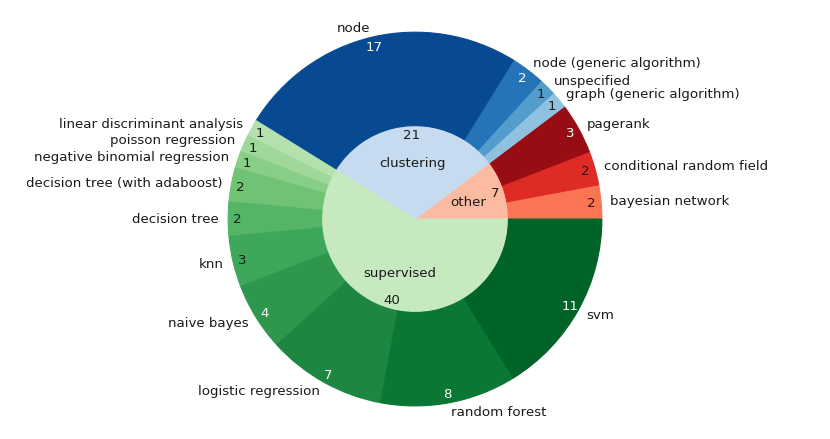
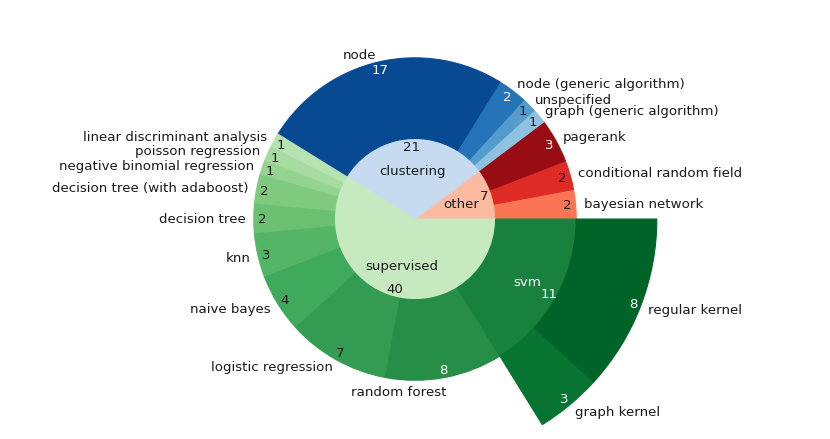
Updated plotting code; update figures

Changed region(s): [[0.0301, 0.0592, 0.9337, 0.9772]]

diff --git a/plotting/plotting.py b/plotting/plotting.py
@@ -788,6 +788,7 @@ def plot_classic_models(args, data: list[data_loading.DataLoader]):
                 assert len(type_info) == 1
                 attrs = model.get_attributes('misc: model')
                 has_adaboost = 'meta: adaboost' in attrs
+                uses_kernel = bool(model.get_attributes('misc: kernel'))
                 if has_adaboost:
                     attrs.remove('meta: adaboost')
                 for key in attrs:
@@ -797,6 +798,11 @@ def plot_classic_models(args, data: list[data_loading.DataLoader]):
                         key = key.replace('ranking:', 'other:')
                     if has_adaboost:
                         unique.add(f'{key} (with adaboost)')
+                    elif key.endswith('svm'):
+                        if uses_kernel:
+                            unique.add(f'{key}: graph kernel')
+                        else:
+                            unique.add(f'{key}: regular kernel')
                     else:
                         unique.add(key)
                     if model.cluster is not None:
@@ -819,8 +825,17 @@ def plot_classic_models(args, data: list[data_loading.DataLoader]):
         current[parts[-1]] = value
     with adjusted_font_scale(1):
         with plot_utils.figure('models/classic-models.png', a4=True, height_size_hint=0.53) as (fig, ax):
-            sb = plot_utils.Sunburst(radius=1, x_to_y_axis_ratio=1 / 0.53, y_stretch=1.1)
-            sb.plot(models_as_tree, ax)
+            align = {
+                'supervised': {
+                    'random forest': {
+                        'horizontal': 'right',
+                        'vertical': 'top',
+                        'raise-by': 0
+                    }
+                }
+            }
+            sb = plot_utils.Sunburst(radius=1, x_to_y_axis_ratio=1 / 0.53, y_stretch=0.85)
+            sb.plot(models_as_tree, ax, alignment_override=align)
 
 
 @utils.easy_log('Plotting Pooling By Type')
